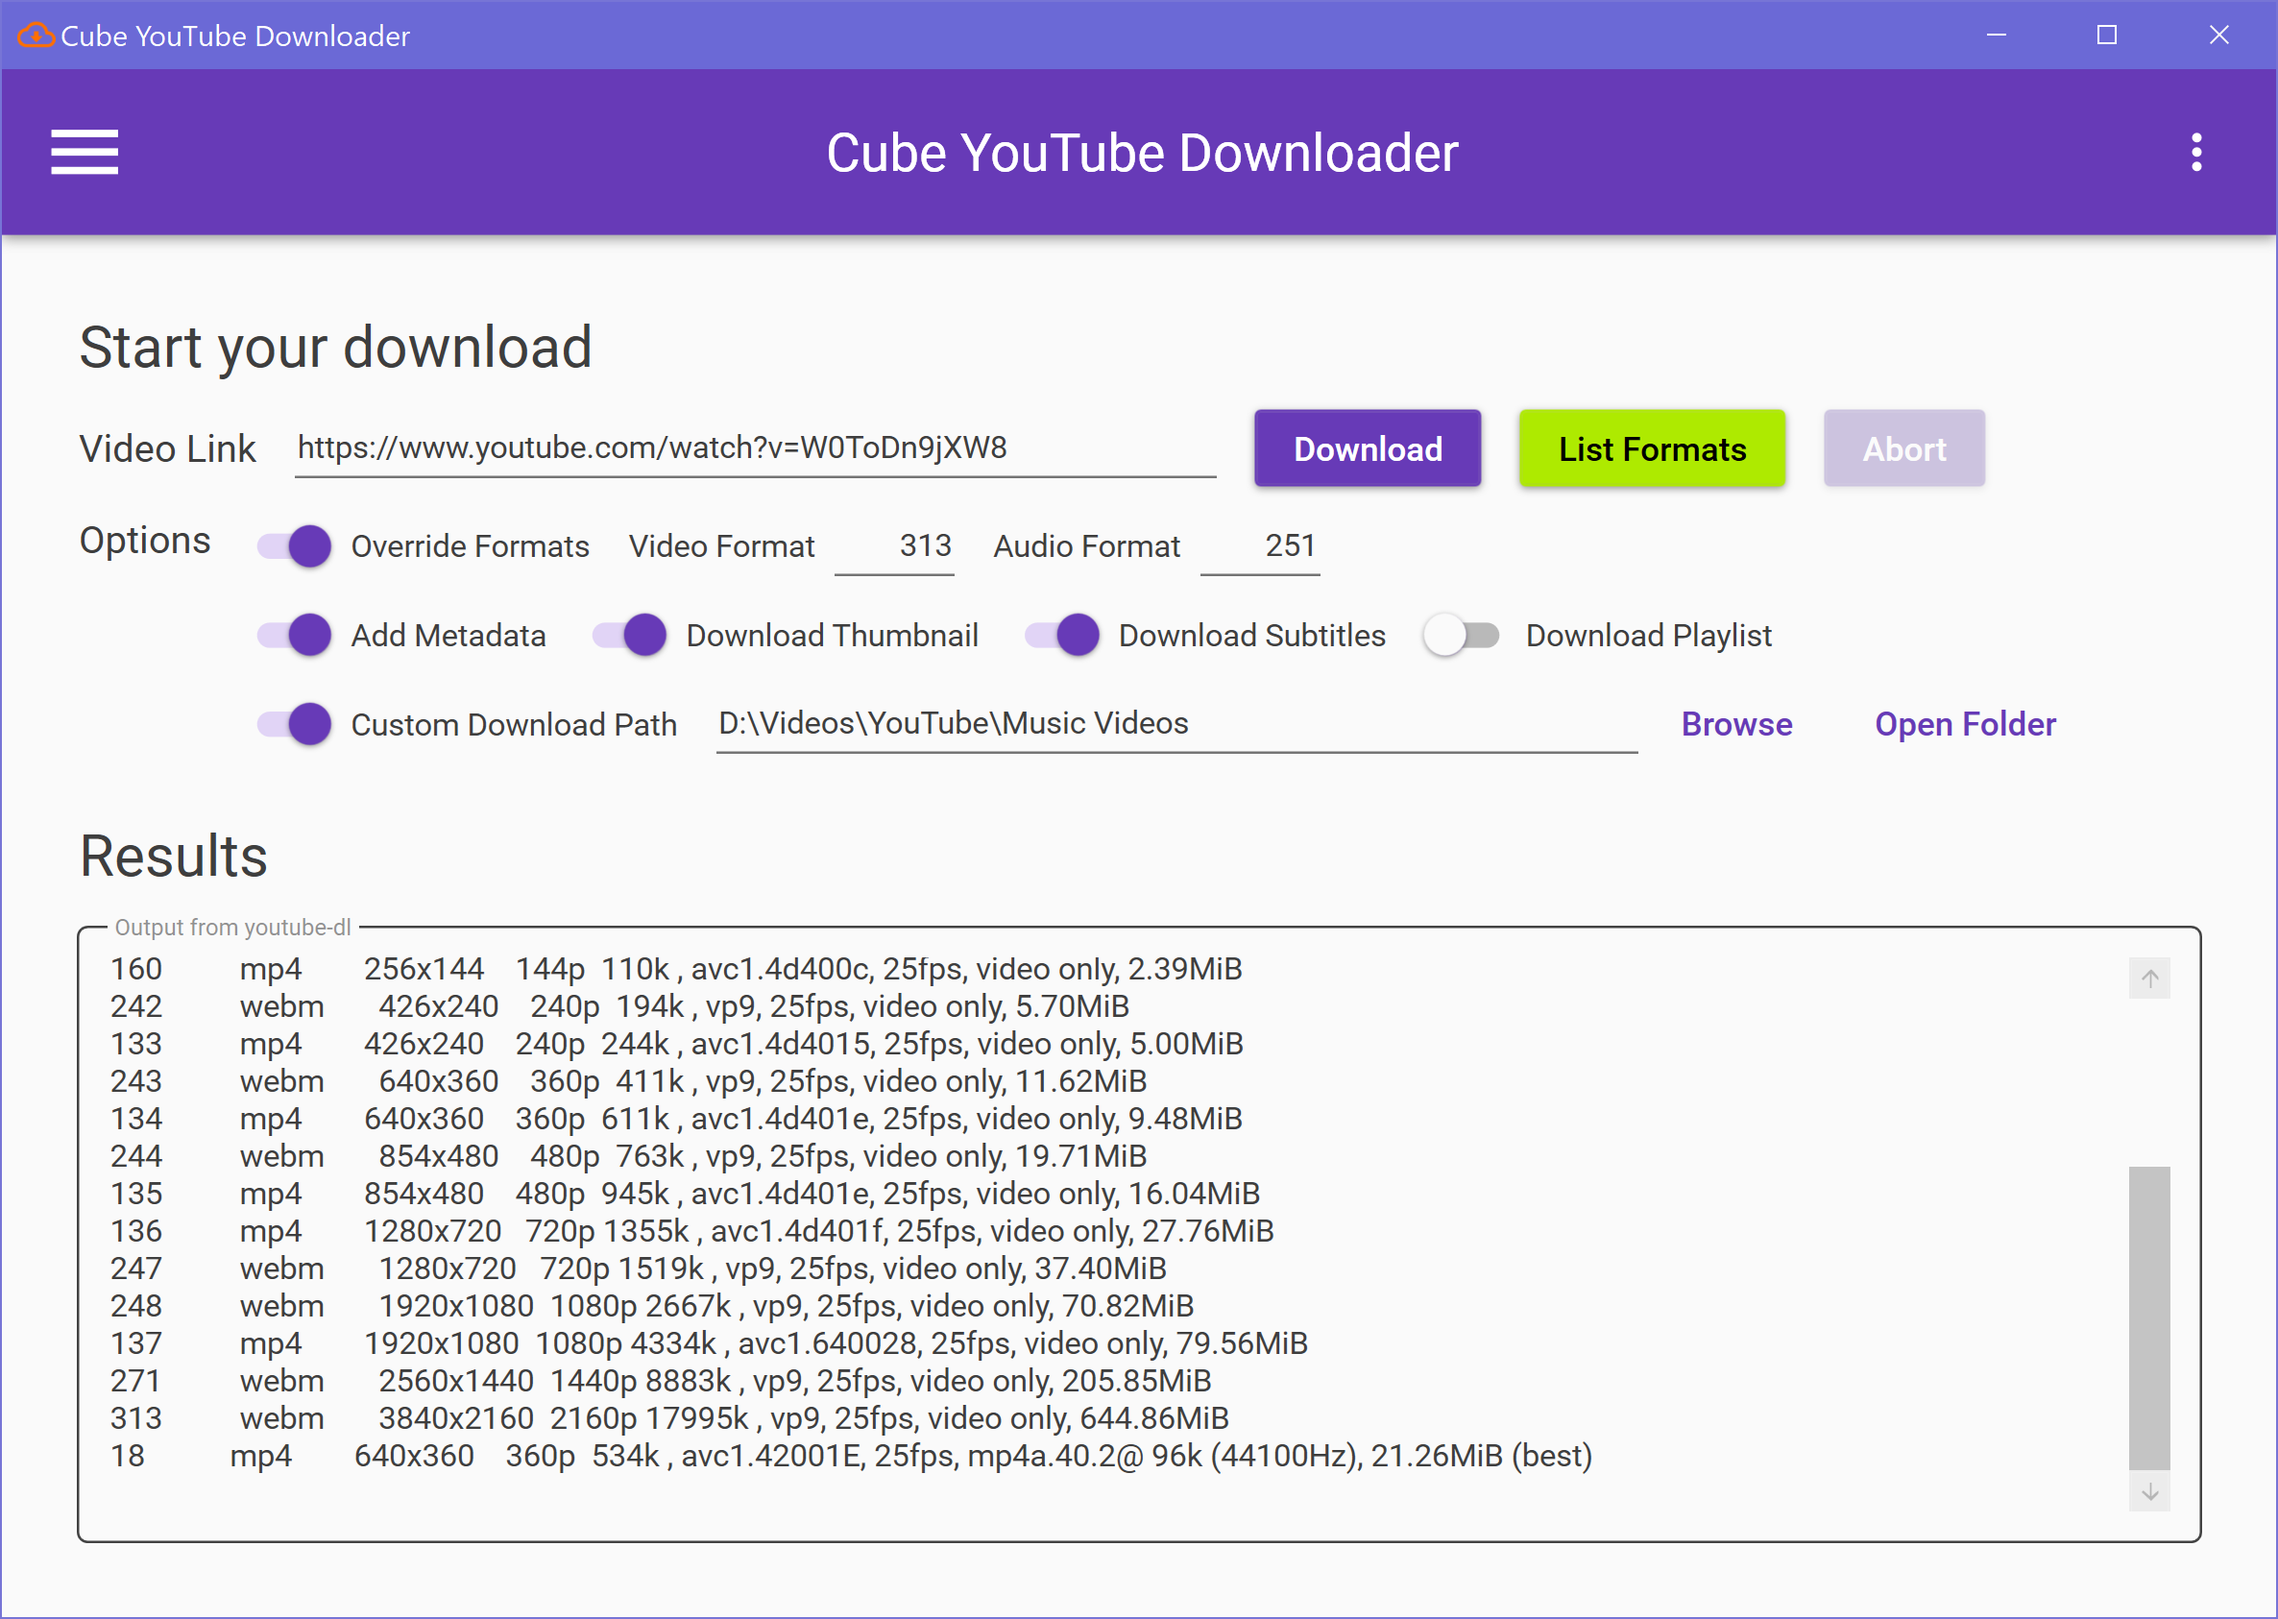
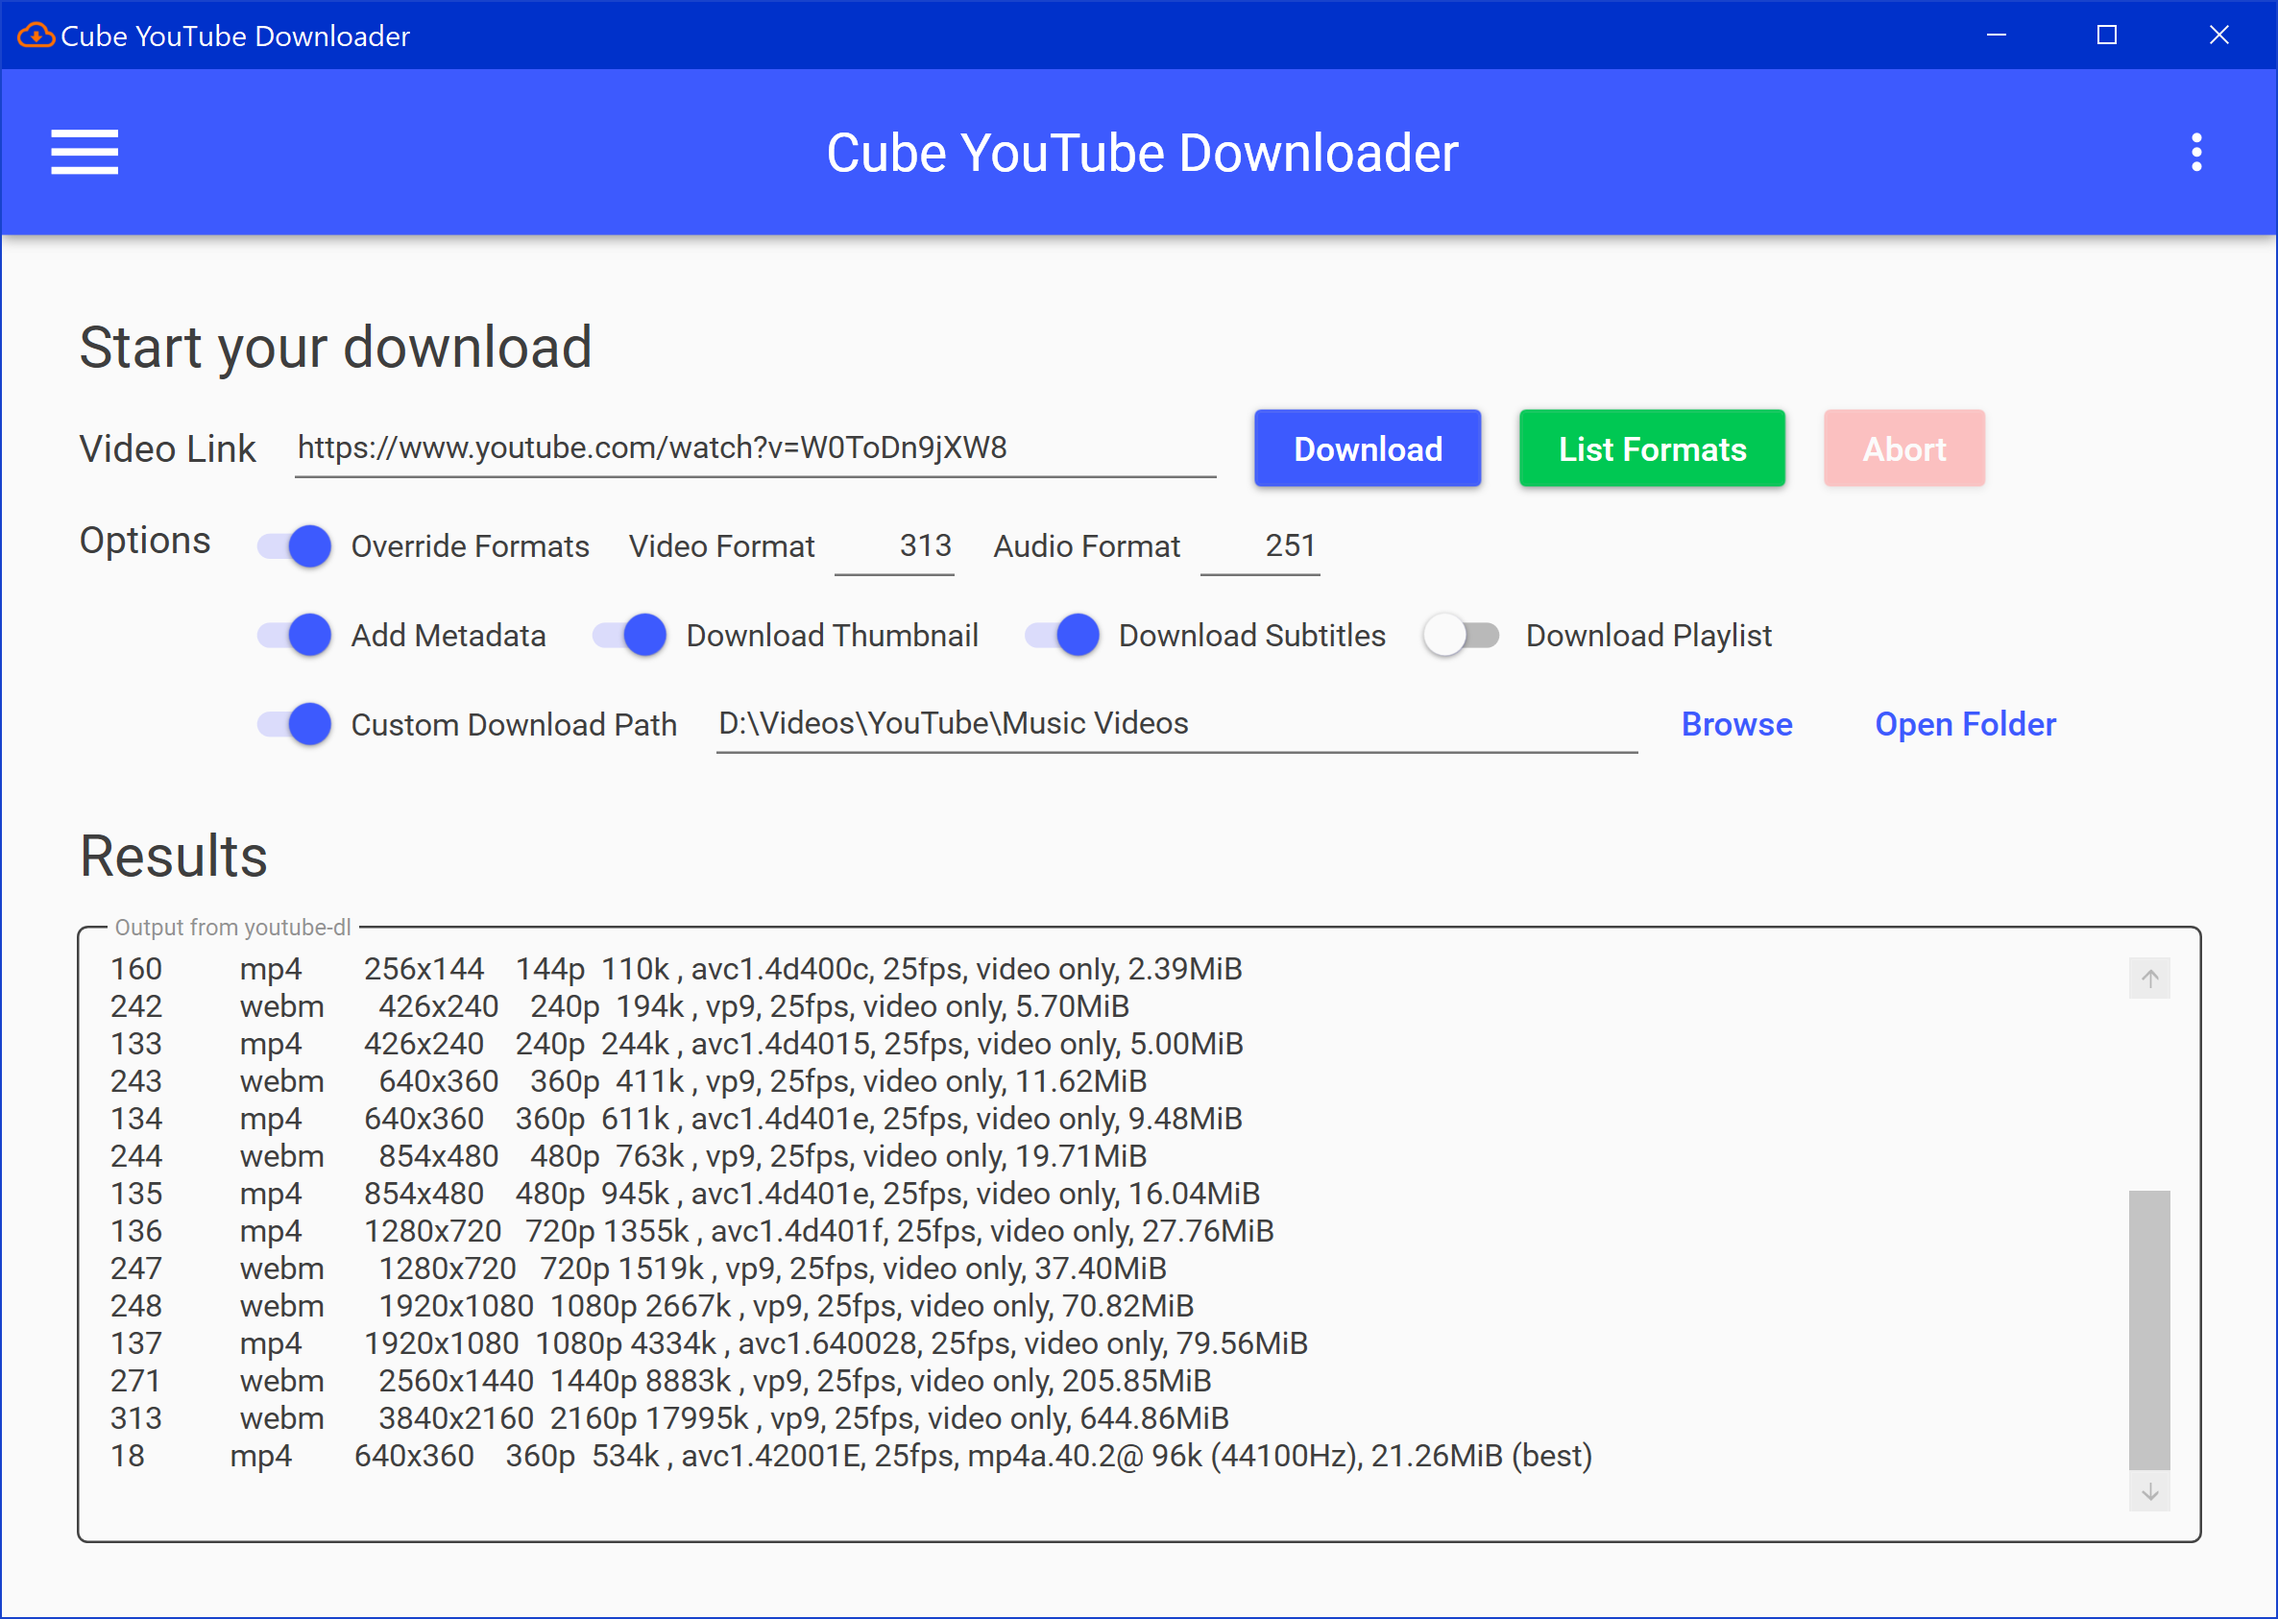
🎨 Support using system color mode
- New ColorMode enum, similar to MaterialDesignThemes.Wpf.BaseTheme enum.
- Toggle color mode with RadioButton.
- Use system color theme by default.

diff --git a/Settings.xaml b/Settings.xaml
@@ -31,13 +31,30 @@
             <TextBlock Grid.Row="1" Grid.Column="0" Margin="8" Style="{StaticResource MaterialDesignHeadline6TextBlock}">UI</TextBlock>
             <TextBlock Grid.Row="2" Grid.Column="0" Style="{StaticResource MaterialDesignBody2TextBlock}" VerticalAlignment="Center" Margin="8">Color Mode</TextBlock>
             <StackPanel Grid.Row="2" Grid.Column="1" Orientation="Horizontal">
-                <ToggleButton
-                    x:Name="darkModeToggle"
-                    Margin="8"
+                <RadioButton
+                    Style="{StaticResource MaterialDesignChoiceChipPrimaryOutlineRadioButton}"
+                    IsChecked="{Binding FollowOSColorMode}"
+                    Command="{Binding ChangeColorMode}"
+                    CommandParameter="{x:Static local:ColorMode.System}"
+                    GroupName="ColorMode">
+                    System
+                </RadioButton>
+                <RadioButton
+                    Style="{StaticResource MaterialDesignChoiceChipPrimaryOutlineRadioButton}"
+                    IsChecked="{Binding LightMode}"
+                    Command="{Binding ChangeColorMode}"
+                    CommandParameter="{x:Static local:ColorMode.Light}"
+                    GroupName="ColorMode">
+                    Light
+                </RadioButton>
+                <RadioButton
+                    Style="{StaticResource MaterialDesignChoiceChipPrimaryOutlineRadioButton}"
                     IsChecked="{Binding DarkMode}"
                     Command="{Binding ChangeColorMode}"
-                    CommandParameter="{Binding RelativeSource={RelativeSource Self}, Path=IsChecked}"/>
-                <TextBlock VerticalAlignment="Center" Margin="0,8,8,8" Text="{Binding ColorMode}" />
+                    CommandParameter="{x:Static local:ColorMode.Dark}"
+                    GroupName="ColorMode">
+                    Dark
+                </RadioButton>
             </StackPanel>
             <TextBlock Grid.Row="3" Grid.Column="0" Margin="8" Style="{StaticResource MaterialDesignHeadline6TextBlock}">Backend</TextBlock>
             <TextBlock Grid.Row="4" Grid.Column="0" Style="{StaticResource MaterialDesignBody2TextBlock}" VerticalAlignment="Center" Margin="8,8,8,8">Update <Span FontWeight="Medium">youtube-dl</Span> on Startup</TextBlock>

diff --git a/App.xaml b/App.xaml
@@ -6,7 +6,7 @@
     <Application.Resources>
         <ResourceDictionary>
             <ResourceDictionary.MergedDictionaries>
-                <materialDesign:CustomColorTheme BaseTheme="Light" PrimaryColor="#3d5afe" SecondaryColor="#00c853" />
+                <materialDesign:CustomColorTheme BaseTheme="Inherit" PrimaryColor="#3d5afe" SecondaryColor="#00c853" />
                 <ResourceDictionary Source="pack://application:,,,/MaterialDesignThemes.Wpf;component/Themes/MaterialDesignTheme.Defaults.xaml" />
             </ResourceDictionary.MergedDictionaries>
         </ResourceDictionary>

diff --git a/AboutDialog.xaml b/AboutDialog.xaml
@@ -26,7 +26,7 @@
                    Style="{StaticResource MaterialDesignHeadline6TextBlock}"
                    TextWrapping="Wrap"
                    VerticalAlignment="Center">
-            About - v1.1 Build 20200714
+            About - v1.1 Build 20200715
         </TextBlock>
         <TextBlock Grid.Row="1"
                    Grid.Column="1"

diff --git a/SettingsViewModel.cs b/SettingsViewModel.cs
@@ -14,9 +14,10 @@ namespace youtube_dl_wpf
         {
             _snackbarMessageQueue = snackbarMessageQueue ?? throw new ArgumentNullException(nameof(snackbarMessageQueue));
 
+            _followOSColorMode = true;
+            _lightMode = false;
             _darkMode = false;
             _autoUpdateDl = true;
-            _colorMode = "Light Mode";
             _dlPath = "";
             _ffmpegPath = "";
             _proxy = "";
@@ -39,9 +40,10 @@ namespace youtube_dl_wpf
         private SettingsJson _settings = null!;
         private readonly SettingsChangedEvent settingsChangedEvent;
 
-        private bool _darkMode; // default to light mode
+        private bool _followOSColorMode; // default to true
+        private bool _lightMode;
+        private bool _darkMode;
         private bool _autoUpdateDl; // auto update youtube-dl by default
-        private string _colorMode; // color mode text for TextBlock
         private string _dlPath; // youtube-dl path
         private string _ffmpegPath;
         private string _proxy;
@@ -57,10 +59,36 @@ namespace youtube_dl_wpf
         private void OnChangeColorMode(object commandParameter)
         {
             ITheme theme = _paletteHelper.GetTheme();
-            IBaseTheme baseTheme = (bool)commandParameter ? new MaterialDesignDarkTheme() : (IBaseTheme)new MaterialDesignLightTheme();
-            theme.SetBaseTheme(baseTheme);
+            switch (commandParameter)
+            {
+                case ColorMode.System:
+                    var systemTheme = Theme.GetSystemTheme();
+                    switch (systemTheme)
+                    {
+                        case BaseTheme.Dark:
+                            theme.SetBaseTheme(Theme.Dark);
+                            break;
+                        case BaseTheme.Light:
+                        default:
+                            theme.SetBaseTheme(Theme.Light);
+                            break;
+                    }
+                    break;
+                case ColorMode.Light:
+                    theme.SetBaseTheme(Theme.Light);
+                    break;
+                case ColorMode.Dark:
+                    theme.SetBaseTheme(Theme.Dark);
+                    break;
+                default:
+                    throw new ArgumentException("Invalid AppColorMode");
+            }
             _paletteHelper.SetTheme(theme);
-            ColorMode = (bool)commandParameter ? "Dark Mode" : "Light Mode";
+            if (_settings.AppColorMode != (ColorMode)commandParameter)
+            {
+                _settings.AppColorMode = (ColorMode)commandParameter;
+                SaveSettings();
+            }
         }
 
         private void OnBrowseExe(object commandParameter)
@@ -125,14 +153,31 @@ namespace youtube_dl_wpf
         /// <returns></returns>
         private async Task ApplySettings()
         {
-            SetProperty(ref _darkMode, _settings.DarkMode);
+            switch (_settings.AppColorMode)
+            {
+                case ColorMode.System:
+                    SetProperty(ref _followOSColorMode, true);
+                    SetProperty(ref _lightMode, false);
+                    SetProperty(ref _darkMode, false);
+                    break;
+                case ColorMode.Light:
+                    SetProperty(ref _followOSColorMode, false);
+                    SetProperty(ref _lightMode, true);
+                    SetProperty(ref _darkMode, false);
+                    break;
+                case ColorMode.Dark:
+                    SetProperty(ref _followOSColorMode, false);
+                    SetProperty(ref _lightMode, false);
+                    SetProperty(ref _darkMode, true);
+                    break;
+                default:
+                    throw new ArgumentException("Invalid AppColorMode");
+            }
+            OnChangeColorMode(_settings.AppColorMode);
             SetProperty(ref _autoUpdateDl, _settings.AutoUpdateDl);
             SetProperty(ref _dlPath, _settings.DlPath);
             SetProperty(ref _ffmpegPath, _settings.FfmpegPath);
             SetProperty(ref _proxy, _settings.Proxy);
-
-            if (_darkMode == true)
-                OnChangeColorMode(true);
 
             await settingsChangedEvent.PublishAsync(_settings);
         }
@@ -171,16 +216,22 @@ namespace youtube_dl_wpf
             }
         }
 
+        public bool FollowOSColorMode
+        {
+            get => _followOSColorMode;
+            set => SetProperty(ref _followOSColorMode, value);
+        }
+
+        public bool LightMode
+        {
+            get => _lightMode;
+            set => SetProperty(ref _lightMode, value);
+        }
+
         public bool DarkMode
         {
             get => _darkMode;
-            set
-            {
-                SetProperty(ref _darkMode, value);
-                _settings.DarkMode = _darkMode;
-                SaveSettings();
-                PublishSettings();
-            }
+            set => SetProperty(ref _darkMode, value);
         }
 
         public bool AutoUpdateDl
@@ -192,12 +243,6 @@ namespace youtube_dl_wpf
                 _settings.AutoUpdateDl = _autoUpdateDl;
                 SaveSettings();
             }
-        }
-
-        public string ColorMode
-        {
-            get => _colorMode;
-            set => SetProperty(ref _colorMode, value);
         }
 
         public string DlPath

diff --git a/SettingsJson.cs b/SettingsJson.cs
@@ -4,8 +4,7 @@
     {
         public SettingsJson()
         {
-            // define default settings
-            DarkMode = false;
+            AppColorMode = ColorMode.System;
             AutoUpdateDl = true;
             DlPath = "";
             FfmpegPath = "";
@@ -22,7 +21,7 @@
             DownloadPath = "";
         }
         
-        public bool DarkMode { get; set; }
+        public ColorMode AppColorMode { get; set; }
         public bool AutoUpdateDl { get; set; }
         public string DlPath { get; set; }
         public string FfmpegPath { get; set; }
@@ -37,5 +36,12 @@
         public bool DownloadPlaylist { get; set; }
         public bool UseCustomPath { get; set; }
         public string DownloadPath { get; set; }
+    }
+
+    public enum ColorMode
+    {
+        System,
+        Light,
+        Dark
     }
 }

diff --git a/README.md b/README.md
@@ -7,7 +7,7 @@ A simple GUI wrapper for [`youtube-dl`](https://github.com/ytdl-org/youtube-dl).
 
 ## Features
 
-- Toggle 🌃 Dark Mode and 🔆 Light Mode.
+- Toggle between 🎨 system color mode, 🌃 dark mode, and 🔆 light mode.
 - Update `youtube-dl` on startup.
 - List available formats.
 - Override video and audio formats.
